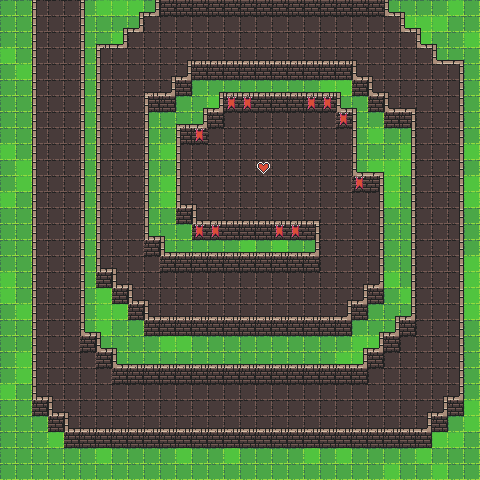
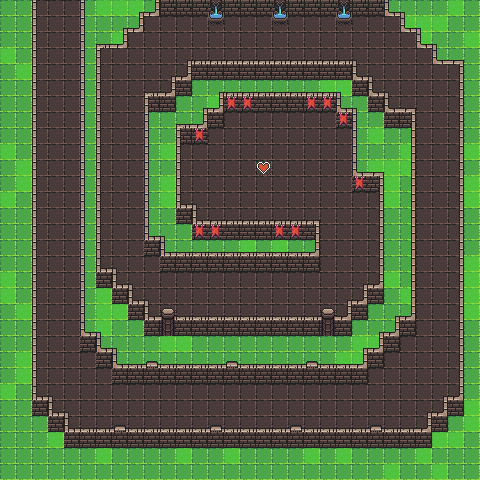
Open and close chests with space

diff --git a/src/index.js b/src/index.js
@@ -54,6 +54,7 @@ const config = {
 const events = new EventEmitter();
 const game = new Phaser.Game(config);
 
+let interactKey;
 let player;
 let cursors;
 let chests = [];
@@ -80,7 +81,10 @@ const chestOverlapState = new FSM(
 );
 let colliders;
 
-ReactDOM.render(<UI events={events} />, document.getElementById("ui"));
+ReactDOM.render(
+  <UI events={events} chestOverlapState={chestOverlapState} />,
+  document.getElementById("ui")
+);
 
 function preload() {
   this.load.spritesheet("sprites", spritesheet, {
@@ -163,20 +167,36 @@ function create() {
   this.anims.create(config);
 
   cursors = this.input.keyboard.createCursorKeys();
+
+  interactKey = this.input.keyboard.addKey("space");
+  interactKey.on("down", event => {
+    const overlappedChest = chests.find(chest =>
+      this.physics.overlap(player, chest)
+    );
+
+    if (chestOverlapState.currentState === "overlapped") {
+      chestOverlapState.action("exit");
+      return;
+    }
+
+    if (overlappedChest) {
+      chestOverlapState.action("enter", overlappedChest);
+    }
+  });
 }
 
 const RUN_SPEED = 150;
 function update() {
   player.setVelocity(0);
 
-  const overlappedChest = chests.find(chest =>
-    this.physics.overlap(player, chest)
-  );
-  if (overlappedChest) {
-    chestOverlapState.action("enter", overlappedChest);
-  } else {
-    chestOverlapState.action("exit", overlappedChest);
-  }
+  // const overlappedChest = chests.find(chest =>
+  //   this.physics.overlap(player, chest)
+  // );
+  // if (overlappedChest) {
+  //   chestOverlapState.action("enter", overlappedChest);
+  // } else {
+  //   chestOverlapState.action("exit", overlappedChest);
+  // }
 
   this.physics.collide(player, colliders);
 

diff --git a/src/components/UI.js b/src/components/UI.js
@@ -2,7 +2,7 @@ import React, { useState, useEffect } from "react";
 import ReactModal from "react-modal";
 import chests from "./chests";
 
-const UI = ({ events }) => {
+const UI = ({ events, chestOverlapState }) => {
   const [isModalOpen, setModalOpen] = useState(false);
   const [chestKey, setChestKey] = useState("");
 
@@ -12,7 +12,7 @@ const UI = ({ events }) => {
       setChestKey(chest.tiledProps.key);
     });
 
-    events.on("chest:overlapped:false", key => {
+    events.on("chest:overlapped:false", () => {
       setModalOpen(false);
     });
   }, []);
@@ -25,7 +25,7 @@ const UI = ({ events }) => {
           {chestKey && chests[chestKey]}
           <button
             onClick={() => {
-              setModalOpen(false);
+              chestOverlapState.action("exit");
             }}
           >
             Close Modal

diff --git a/src/components/useRefState.js b/src/components/useRefState.js
@@ -1,0 +1,16 @@
+import { useState, useRef } from "react";
+
+const useRefState = initialValue => {
+  const [state, setInternalState] = useState(initialValue);
+  const stateRef = useRef(state);
+
+  const setState = newState => {
+    console.log(state, newState);
+    stateRef.current = newState;
+    setInternalState(newState);
+  };
+
+  return [stateRef, setState];
+};
+
+export default useRefState;
